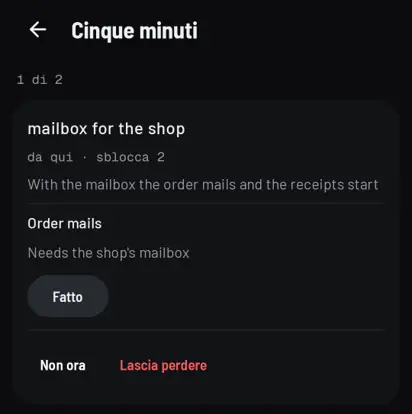
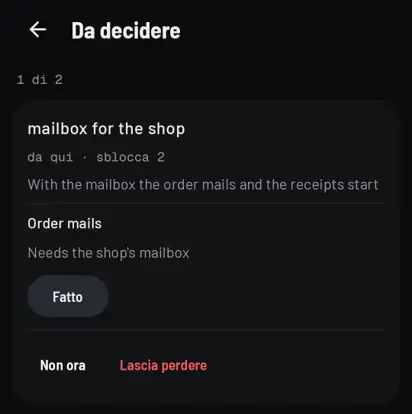
test(phone): the new home sections among the others; goldens and feature images with To decide (app-da-decidere-02-11)

Changed region(s): [[0.1748, 0.058, 0.4951, 0.1159]]

diff --git a/mobile/src/test/kotlin/it/pixelbox/cmwatch/mobile/SummaryListTest.kt b/mobile/src/test/kotlin/it/pixelbox/cmwatch/mobile/SummaryListTest.kt
@@ -76,6 +76,20 @@ class SummaryListTest {
         }
     }
 
+    // Franz 02/11 07:20: le righe del programma sono testate come le altre, nell'ordine scelto; una sta in mezzo alle sezioni di sempre.
+    @Test fun voci_nuove_trascinabili_home() = paparazzi.snapshot {
+        val idle = ContractJson.decodeState(File("../contract/state-3-stale.json").readText()).copy(
+            prove = ProveSummary(2, 1, 0, 0), decisions = DecisionsSummary(2, 1, 3, 0), seguiti = SeguitiSummary(2, 1, 1),
+            primaRaccolta = PrimaRaccoltaSummary("ask", 7, 8, true, null),
+            homeOrder = listOf("seguiti", "prima_raccolta", "esiti", "decisioni", "prove", "sessions", "suggestions", "lavori", "usage", "system", "plugins", "closed"),
+        )
+        CmPhoneTheme(still = true) {
+            Column(Modifier.background(it.pixelbox.cmwatch.mobile.ui.V3.Bg)) {
+                SummaryList(model(idle), {}, { _, _ -> }, { _, _ -> }, {}, {}, now = idle.ts, kpiState = idle, onPrima = {}, onSeguiti = {}, onProve = {}, onDecisions = {}, onHomeOrder = {})
+            }
+        }
+    }
+
     // Contratto 1.84 (scheda A, Franz 24/10 19:46): i suggerimenti della master dopo chi ti aspetta, tre di quattro.
     @Test fun summaryWithSuggestions() = paparazzi.snapshot {
         val sg = listOf(
